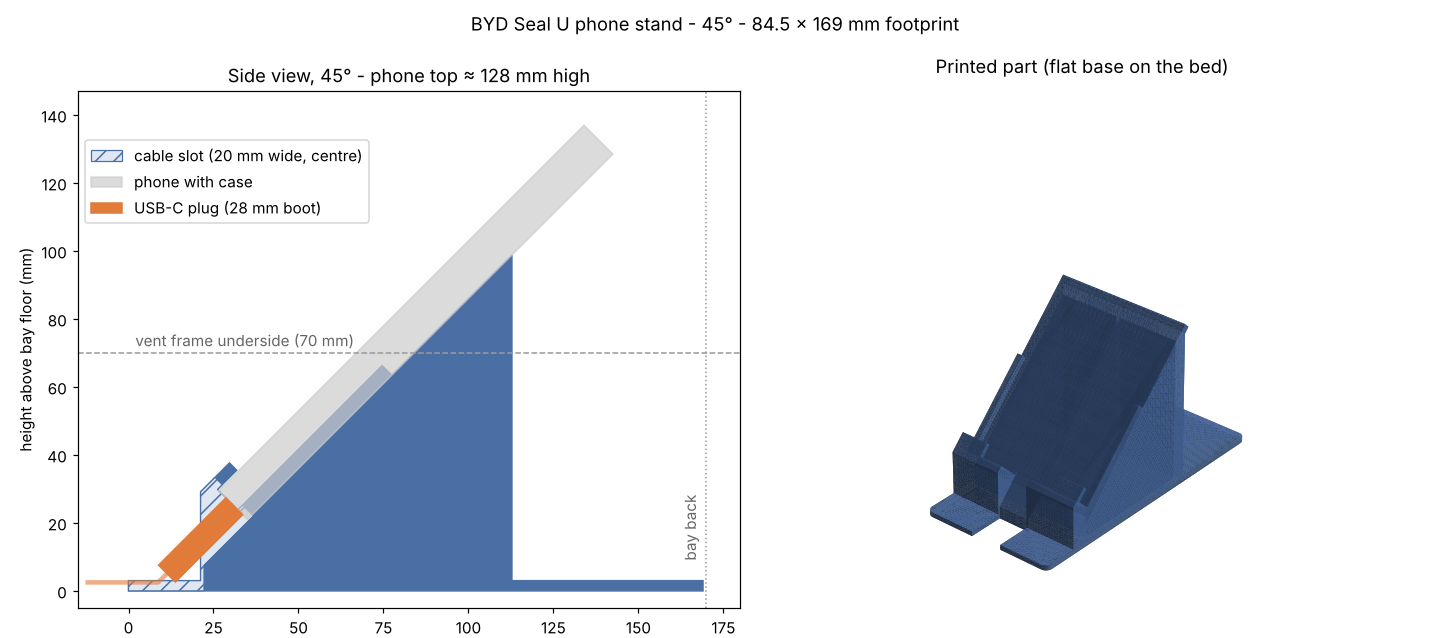
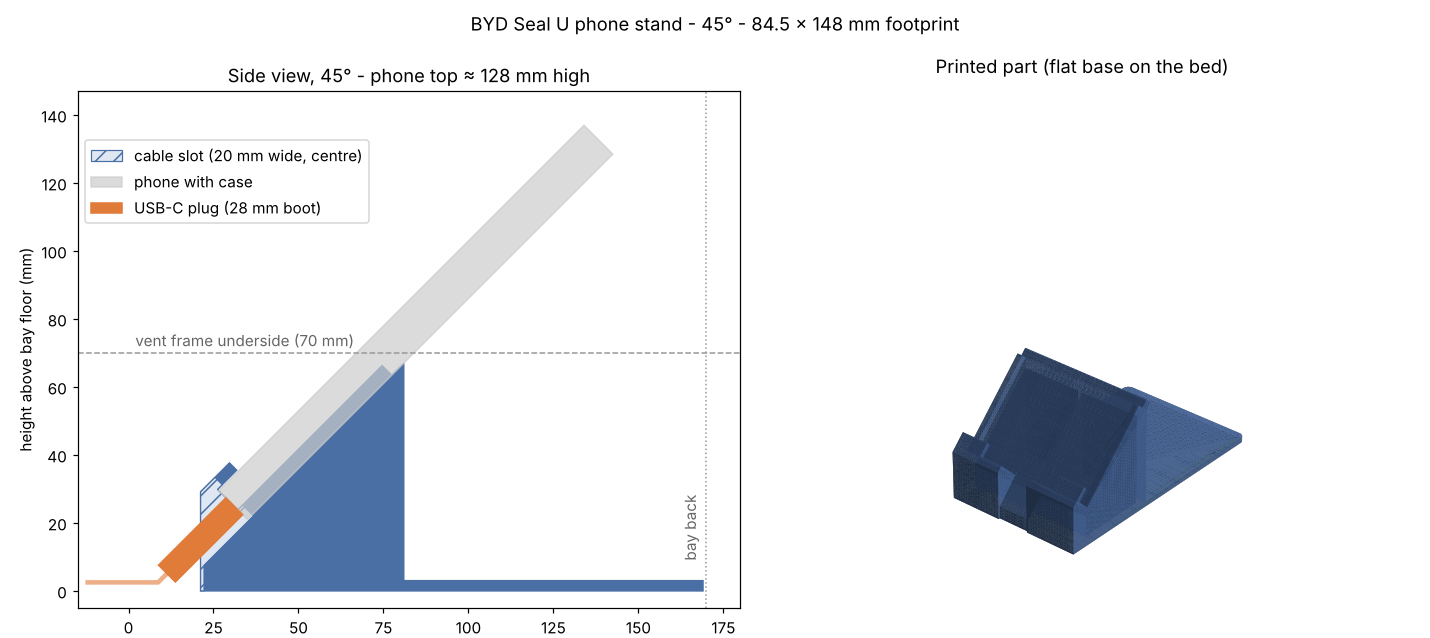
Car stand: drop the front base tabs, end the back plate 5 mm past the guides
The back plate now stops at 65 mm (5 mm beyond the side guides) so the whole
stand stays below the 70 mm vent frame; the build asserts it. The base starts
at the front block instead of reaching forward into two tabs.

Claude-Session: https://claude.ai/code/session_013YA3AEwLfcXLzScjqCic9X

diff --git a/phone-holder/generate_holder.py b/phone-holder/generate_holder.py
@@ -53,7 +53,8 @@ PLATE_T = 4.0          # back plate under the phone
 WALL_T = (W - 78.0) / 2  # side walls -> 78 mm between the phone guides
 GUIDE_H = 4.0          # side guides above the back plate
 GUIDE_L = 60.0         # guide length from the ledge (stays clear of buttons)
-SUPPORT_L = 110.0      # back plate length along the phone
+SUPPORT_L = GUIDE_L + 5  # back plate ends 5 mm past the side guides, so the
+                         # stand stays under the vent frame
 LEDGE_T = 4.0
 SLOT_T = PHONE_T + 0.5  # gap between back plate and front lip
 LIP_T = 3.0
@@ -149,7 +150,8 @@ def build_stand(angle):
     cuts = [0, WALL_T, WALL_T + LIP_W, W / 2 - RIB_T / 2, W / 2 + RIB_T / 2,
             W - WALL_T - LIP_W, W - WALL_T, W]
     profiles = [full + side + lip, full + lip, full, full + wedge_cs, full, full + lip, full + side + lip]
-    solid = base_plate(BASE_T)
+    # The base starts at the front block: no tabs in front of it.
+    solid = base_plate(BASE_T) ^ m3d.Manifold.cube([D, W, BASE_T + 2]).translate([x_front, 0, -1])
     for y0, y1, prof in zip(cuts, cuts[1:], profiles):
         solid += side_extrude(prof, y0, y1)
 
@@ -218,7 +220,7 @@ def render_preview(angle, tm, path):
     # Side view: stand profile, phone, plug and the vent frame height.
     ax = fig.add_subplot(1, 2, 1)
     side = wedge(P) + quad(P, 0, GUIDE_L, -PLATE_T, GUIDE_H) + quad(
-        P, -LEDGE_T, LIP_H, SLOT_T, SLOT_T + LIP_T) + rect(0, D, 0, BASE_T)
+        P, -LEDGE_T, LIP_H, SLOT_T, SLOT_T + LIP_T) + rect(P(-LEDGE_T, SLOT_T + LIP_T)[0], D, 0, BASE_T)
     for ring in side.to_polygons():
         ax.fill(*np.vstack([ring, ring[:1]]).T, color="#4a6fa5")
     # The centre strip is cut away for the plug and cable.
@@ -267,7 +269,7 @@ def render_preview(angle, tm, path):
     ax3.set_title("Printed part (flat base on the bed)")
     ax3.set_axis_off()
 
-    fig.suptitle(f"BYD Seal U phone stand - {angle}° - {W:.1f} x {D:.0f} mm footprint")
+    fig.suptitle(f"BYD Seal U phone stand - {angle}° - {W:.1f} x {tm.extents[0]:.0f} mm footprint")
     fig.tight_layout()
     fig.savefig(path, dpi=110)
     plt.close(fig)
@@ -295,6 +297,7 @@ def main():
         stand = build_stand(angle)
         floor_gap = check_cable_fit(angle, stand)
         tm = to_trimesh(stand, f"stand {angle}")
+        assert tm.bounds[1][2] < FRAME_CLEARANCE, f"{angle} deg: stand hits the vent frame"
         path = out_dir / f"seal_u_phone_stand_{angle}deg.stl"
         tm.export(path)
         render_preview(angle, tm, out_dir / f"seal_u_phone_stand_{angle}deg_preview.png")

diff --git a/phone-holder/README.md b/phone-holder/README.md
@@ -14,9 +14,9 @@ centre console. Held by the bay's rubber tabs only: no adhesive, no vent clip.
 | קובץ | זווית מהרצפה | גובה המעמד | גובה קצה הטלפון | הערות |
 |------|--------------|-------------|-------------------|-------|
 | [fit_test_plate.stl](stl/fit_test_plate.stl) | — | 2 מ"מ | — | **להדפיס קודם** (~15 דק') ולבדוק שנכנס לתא |
-| [seal_u_phone_stand_35deg.stl](stl/seal_u_phone_stand_35deg.stl) | 35° | 84 מ"מ | ~108 מ"מ | הכי שכוב; הטלפון מגיע ~1 ס"מ מהקיר האחורי |
-| [seal_u_phone_stand_40deg.stl](stl/seal_u_phone_stand_40deg.stl) | 40° | 92 מ"מ | ~119 מ"מ | **ברירת מחדל** |
-| [seal_u_phone_stand_45deg.stl](stl/seal_u_phone_stand_45deg.stl) | 45° | 99 מ"מ | ~128 מ"מ | הכי זקוף |
+| [seal_u_phone_stand_35deg.stl](stl/seal_u_phone_stand_35deg.stl) | 35° | 59 מ"מ | ~108 מ"מ | הכי שכוב; הטלפון מגיע ~1 ס"מ מהקיר האחורי |
+| [seal_u_phone_stand_40deg.stl](stl/seal_u_phone_stand_40deg.stl) | 40° | 63 מ"מ | ~119 מ"מ | **ברירת מחדל** |
+| [seal_u_phone_stand_45deg.stl](stl/seal_u_phone_stand_45deg.stl) | 45° | 67 מ"מ | ~128 מ"מ | הכי זקוף |
 
 תצוגות: [35°](stl/seal_u_phone_stand_35deg_preview.png) ·
 [40°](stl/seal_u_phone_stand_40deg_preview.png) ·
@@ -24,14 +24,16 @@ centre console. Held by the bay's rubber tabs only: no adhesive, no vent clip.
 
 ## מידות / Dimensions
 
-- **בסיס:** 84.5 × 169 מ"מ (התא בין הבליטות: 85 × 170), פינות מעוגלות.
+- **בסיס:** 84.5 מ"מ רוחב (התא בין הבליטות: 85), מתחיל בקדמת המדף (בלי לשוניות
+  קדימה) ונגמר 169 מ"מ מקדמת התא — כ-148 מ"מ אורך.
 - **עריסה:** 78 מ"מ בין הדפנות, מרווח 12.5 מ"מ לעובי — מתאים לאייפון 14 פרו
   ולגלקסי S24 / S25 עם כיסוי (עד 12 מ"מ עובי, ~76 מ"מ רוחב).
-- **תמיכה:** משטח גב באורך 110 מ"מ; דפנות צד נמוכות (4 מ"מ) רק ב-60 המ"מ
+- **תמיכה:** משטח גב באורך 65 מ"מ (5 מ"מ מעבר לדפנות הצד), כך שכל המעמד
+  נשאר מתחת למסגרת המזגן (70 מ"מ) — נבדק בכל יצירה; דפנות צד נמוכות (4 מ"מ) רק ב-60 המ"מ
   התחתונים, כדי לא ללחוץ על כפתורי הצד. שפה קדמית רק בפינות — תחתית המסך פנויה.
 - **כבל טעינה:** חריץ ברוחב 20 מ"מ באמצע המדף, פתוח קדימה, כך שאפשר לחבר
   את הכבל לטלפון ואז להניח את הטלפון במעמד והכבל "נופל" לחריץ. הכבל יוצא
-  מקדמת המעמד דרך פתח בבסיס ושוכב על רצפת התא.
+  מקדמת המעמד דרך פתח בבלוק הקדמי ושוכב על רצפת התא.
   - **בדוק בקוד** (`check_cable_fit`, רץ בכל יצירה): תקע עם ראש קשיח עד
     **28 מ"מ** אורך (מפני הכיסוי והחוצה), עד 13 × 7.5 מ"מ, לא נוגע במעמד ולא
     ברצפת התא, בכל גובה שקע 4.5–6.5 מ"מ מגב הכיסוי ובהזזה של ±1.5 מ"מ לצדדים.
